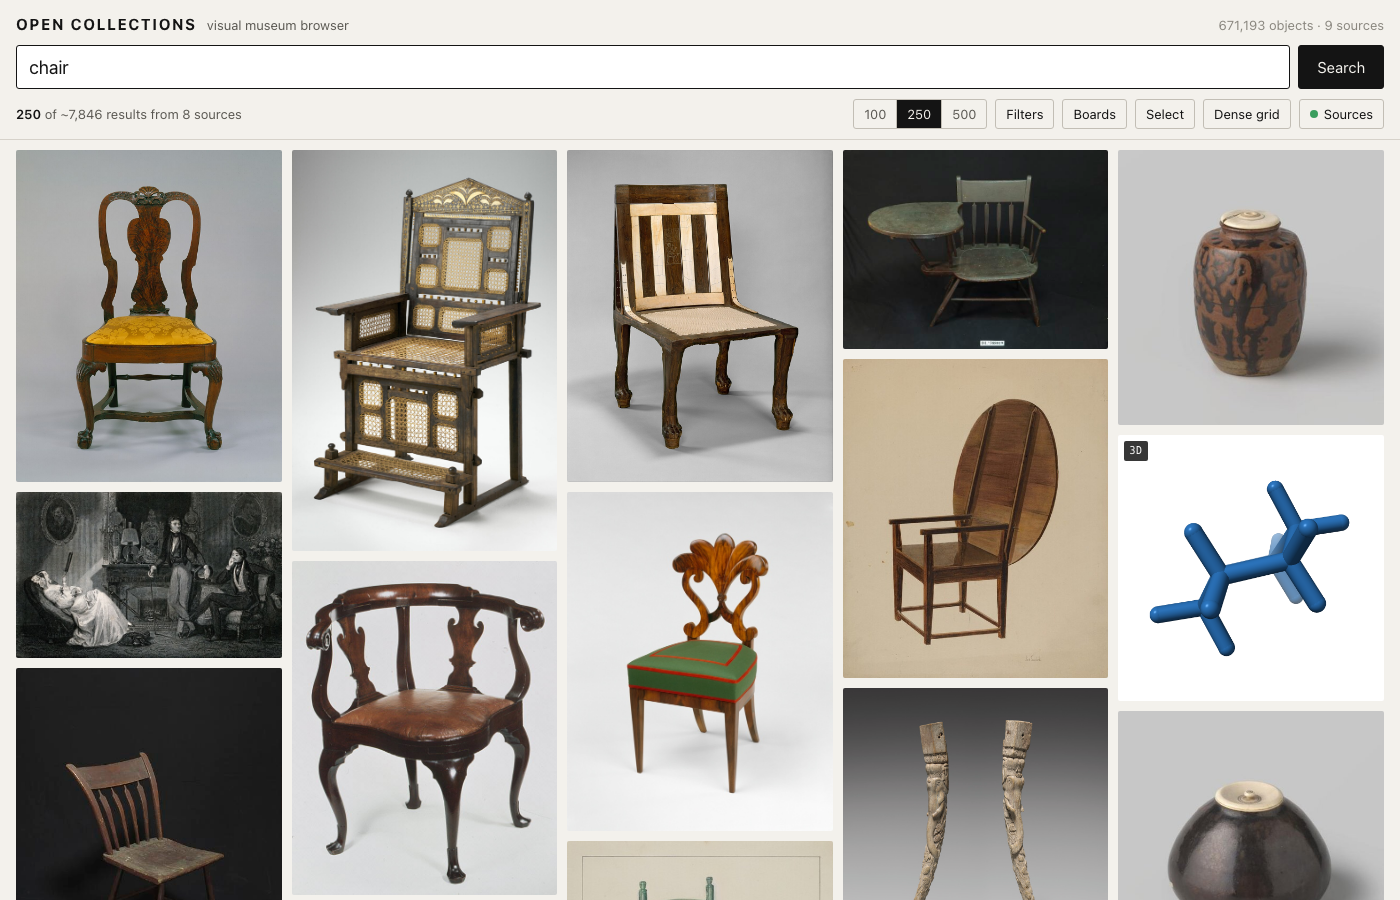
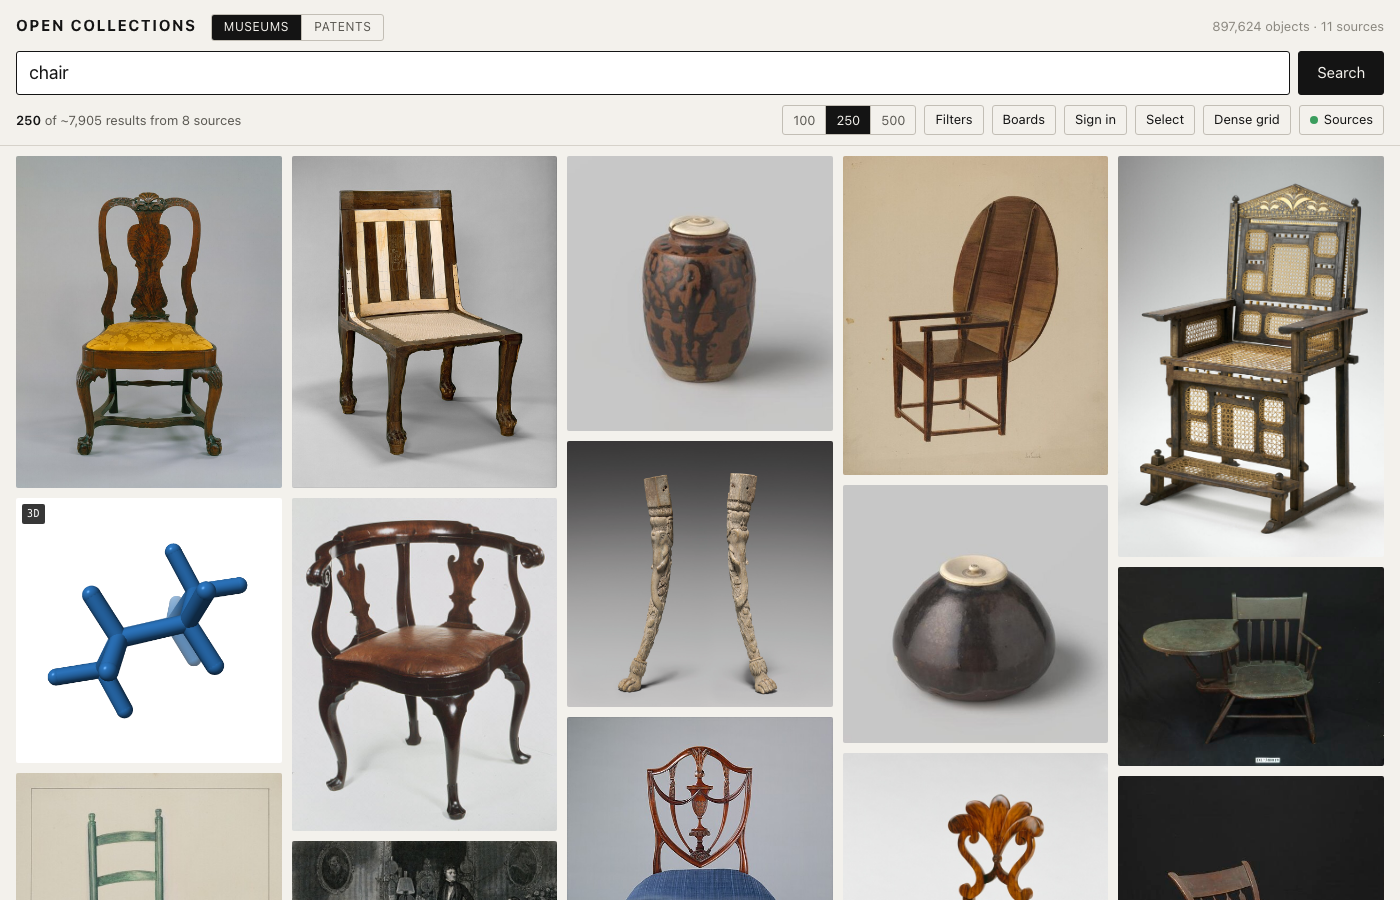
Harvard: CORS-safe canvas loads across nrs redirects, case-tolerant URL template

diff --git a/shared/urls.ts b/shared/urls.ts
@@ -124,15 +124,19 @@ export const TEMPLATES: Record<string, Template> = {
     rights: PD,
   },
   harvard: {
+    // the urn prefix appears as both HUAM and huam upstream — keep it in the key verbatim
     extract: ({ original }) => {
-      const m = (original || '').match(/^https:\/\/nrs\.harvard\.edu\/urn-3:HUAM:([A-Za-z0-9_.-]+)$/)
+      const m = (original || '').match(/^https:\/\/nrs\.harvard\.edu\/urn-3:((?:HUAM|huam):[A-Za-z0-9_.-]+)$/)
       return m ? m[1] : null
     },
-    expand: (k) => ({
-      thumb: `https://nrs.harvard.edu/urn-3:HUAM:${k}?width=600`,
-      image: `https://nrs.harvard.edu/urn-3:HUAM:${k}?width=1600`,
-      original: `https://nrs.harvard.edu/urn-3:HUAM:${k}`,
-    }),
+    expand: (k) => {
+      const kk = k.includes(':') ? k : 'HUAM:' + k // older builds stored the key without the prefix
+      return {
+        thumb: `https://nrs.harvard.edu/urn-3:${kk}?width=600`,
+        image: `https://nrs.harvard.edu/urn-3:${kk}?width=1600`,
+        original: `https://nrs.harvard.edu/urn-3:${kk}`,
+      }
+    },
   },
   smk: {
     extract: ({ thumb }) => {

diff --git a/api/_lib/proxy.ts b/api/_lib/proxy.ts
@@ -79,7 +79,7 @@ export async function proxyFetch(url: string, opts: { download?: string | null; 
     // Some image hosts (e.g. AIC's Cloudflare) refuse datacenter IPs. Hand the browser the original URL
     // instead of failing: it can fetch it directly (these hosts allow CORS / hotlinking from browsers).
     if (opts.redirectOnBlock && (upstream.status === 403 || upstream.status === 429 || upstream.status === 503)) {
-      return new Response(null, { status: 302, headers: { location: url, 'cache-control': 'no-store', 'x-oc-fallback': 'direct' } })
+      return new Response(null, { status: 302, headers: { location: url, 'cache-control': 'no-store', 'x-oc-fallback': 'direct', 'x-oc-upstream-status': String(upstream.status) } })
     }
     return new Response(JSON.stringify({ error: `Upstream returned ${upstream.status}` }), {
       status: upstream.status === 404 ? 404 : 502,

diff --git a/src/lib/similarity.ts b/src/lib/similarity.ts
@@ -38,7 +38,7 @@ async function loadForCanvas(item: Item): Promise<HTMLImageElement> {
       /* fall through to proxy */
     }
   }
-  return loadImage(proxyImageUrl(item, 'thumb'), false)
+  return loadImage(proxyImageUrl(item, 'thumb'), true)
 }
 
 export async function signature(item: Item): Promise<Signature | null> {
